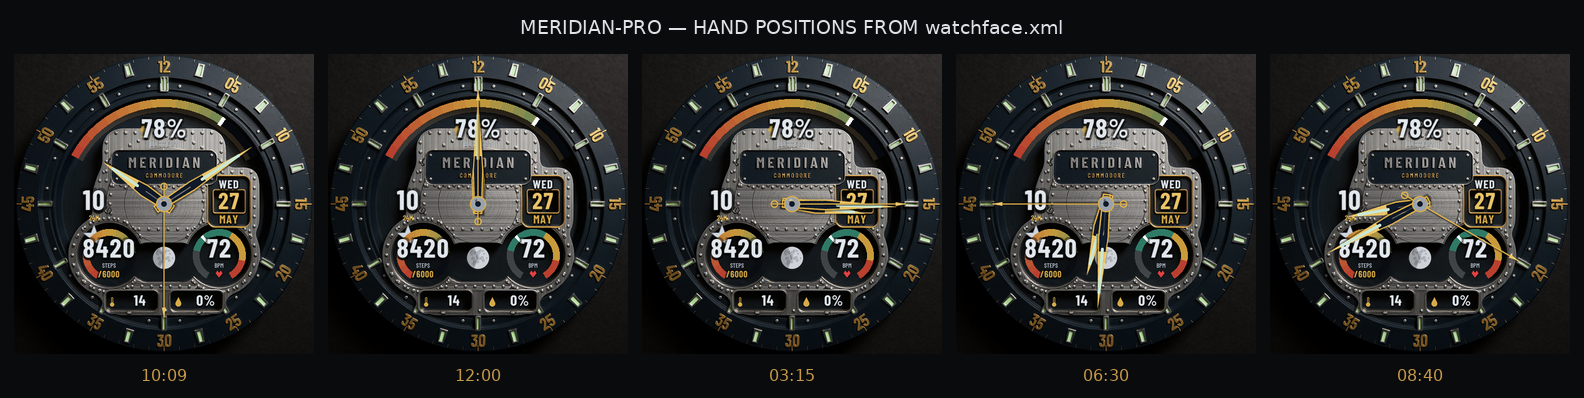
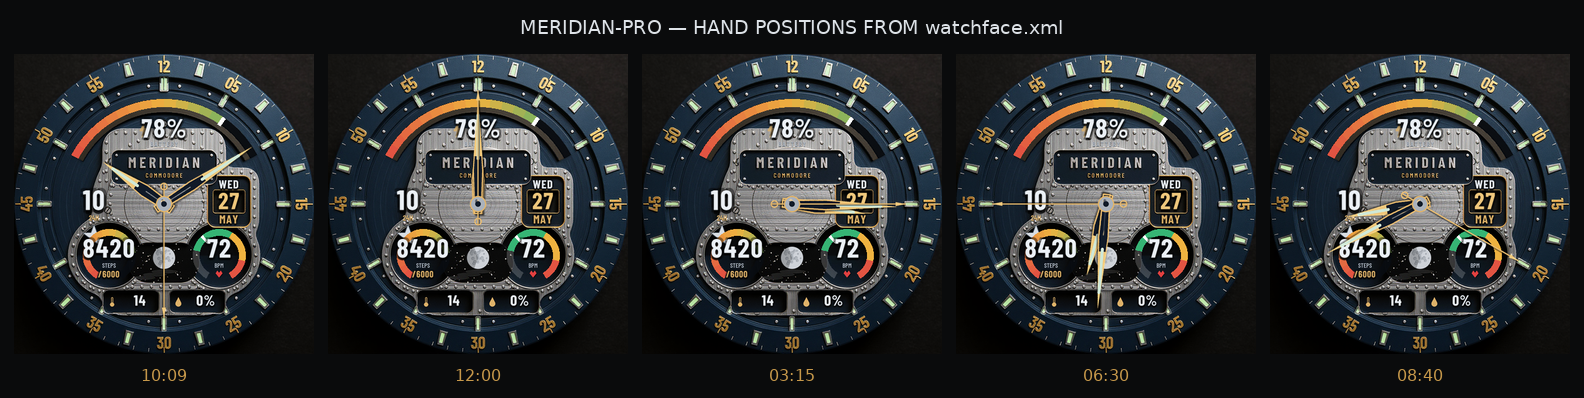
MERIDIAN PRO v3: the palette re-sampled from the concept itself
The build had drifted dark-and-gold; the owner prefers the concept's
bright steel-blue. Fixed the house way - measured, not judged: the navy
anchors are sampled off the hero dial (bezel 59,81,105; dial 28,48,70),
steel goes silvery with a cool cast, the zone colours brighten, the lume
greens. Kontext prompt retuned to match (bright high-key, steel-blue
anodized, silvery steel); generation held 8/8 anchors. Same-scale pair in
review/PRO-v3-vs-concept.png.

Changed region(s): [[0.0, 0.1206, 1.0, 0.9045]]

diff --git a/tools/meridian_pro/geometry.py b/tools/meridian_pro/geometry.py
@@ -197,20 +197,23 @@ PLATE = {
 # COMMODORE navy family, sampled not invented; steel from the concept.
 # Themes swap this dict wholesale in phase 7.
 PALETTE = {
-    "dial_hi":   (30, 42, 58),
-    "dial_lo":   (12, 19, 30),
-    "bezel_hi":  (24, 33, 46),
-    "bezel_lo":  (10, 16, 25),
-    "gold":      (214, 170, 71),
-    "gold_hi":   (235, 196, 104),
-    "steel_hi":  (232, 236, 240),
-    "steel":     (154, 163, 173),
-    "steel_lo":  (58, 66, 76),
-    "well":      (12, 20, 31),
-    "lume":      (201, 232, 212),
-    "ink":       (226, 232, 238),
-    "zone_ok":   (47, 122, 102),
-    "zone_warn": (200, 154, 60),
-    "zone_lim":  (184, 64, 47),
-    "second":    (232, 86, 60),
+    # RE-SAMPLED FROM THE CONCEPT SHEET 2026-07-29 after the owner's call:
+    # the build had drifted dark-and-gold; the concept is brighter
+    # steel-blue. Navy anchors measured off the hero dial itself.
+    "dial_hi":   (48, 72, 100),
+    "dial_lo":   (16, 28, 44),
+    "bezel_hi":  (59, 81, 105),
+    "bezel_lo":  (26, 40, 58),
+    "gold":      (222, 178, 105),
+    "gold_hi":   (240, 200, 124),
+    "steel_hi":  (226, 234, 242),
+    "steel":     (170, 178, 188),
+    "steel_lo":  (86, 96, 110),
+    "well":      (14, 24, 38),
+    "lume":      (208, 232, 214),
+    "ink":       (236, 241, 246),
+    "zone_ok":   (54, 180, 116),
+    "zone_warn": (238, 178, 64),
+    "zone_lim":  (226, 84, 66),
+    "second":    (236, 92, 70),
 }

diff --git a/tools/meridian_pro/kontext_pass.py b/tools/meridian_pro/kontext_pass.py
@@ -40,14 +40,14 @@ PROMPT = (
     "photograph of a real luxury military aviator wristwatch dial. Keep "
     "every element in exactly the same position, size and arrangement - do "
     "not move, add or remove anything, and do not add any text. The outer "
-    "bezel is deep navy anodized aluminium with engraved gold minute "
+    "bezel is bright steel-blue anodized aluminium with engraved gold minute "
     "numerals and applied polished-steel trapezoid indices filled with "
     "pale green luminous paint. The navy ring inside it is riveted "
     "aircraft skin with panel seams. The centre plates are two levels of "
-    "real machined brushed steel - a raised bridge over a base plate - "
+    "bright silvery brushed steel with a cool blue cast - a raised bridge over a base plate - "
     "with fine metal grain, chamfered polished edges, rows of tiny dome "
     "rivets, slotted screws and faint tooling marks; the round hub has "
-    "circular graining. The dark curved band near the top is a recessed "
+    "circular graining. Keep the overall palette bright steel-blue and silver, not dark. The dark curved band near the top is a recessed "
     "channel milled into the metal with polished lips - keep it empty and "
     "dark. MERIDIAN COMMODORE is stamped on its own inset navy plate with "
     "corner rivets. The dark circular wells, the navy windows with steel "
